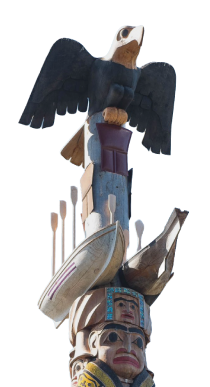
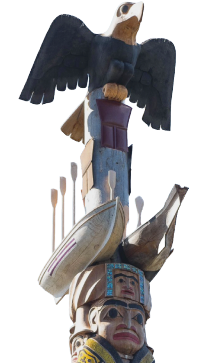
cta

Changed region(s): [[0.0857, 0.0, 0.9143, 1.0], [0.6571, 0.9394, 0.7429, 1.0]]

diff --git a/dist/css/editor.css b/dist/css/editor.css
@@ -2506,6 +2506,10 @@ div .gform_wrapper.gravity-theme .validation_message {
 			border-radius: 16px 16px 112px 0px;
 		}
 
+.isp-cta-d .isp-cta__image--overlay, .isp-cta-e .isp-cta__image--overlay, .isp-cta-f .isp-cta__image--overlay {
+		height: 100%;
+	}
+
 .isp-cta-d .isp-cta__image--overlay img, .isp-cta-e .isp-cta__image--overlay img, .isp-cta-f .isp-cta__image--overlay img {
 			position: absolute;
 			left: 50%;

diff --git a/dist/css/main.css b/dist/css/main.css
@@ -3250,6 +3250,10 @@ div .gform_wrapper.gravity-theme .validation_message {
 			border-radius: 16px 16px 112px 0px;
 		}
 
+.isp-cta-d .isp-cta__image--overlay, .isp-cta-e .isp-cta__image--overlay, .isp-cta-f .isp-cta__image--overlay {
+		height: 100%;
+	}
+
 .isp-cta-d .isp-cta__image--overlay img, .isp-cta-e .isp-cta__image--overlay img, .isp-cta-f .isp-cta__image--overlay img {
 			position: absolute;
 			left: 50%;

diff --git a/assets/css/cards/_cta.css b/assets/css/cards/_cta.css
@@ -196,6 +196,8 @@
 		}
 	}
 	.isp-cta__image--overlay {
+		height: 100%;
+		
 		& img {
 			position: absolute;
 			left: 50%;
